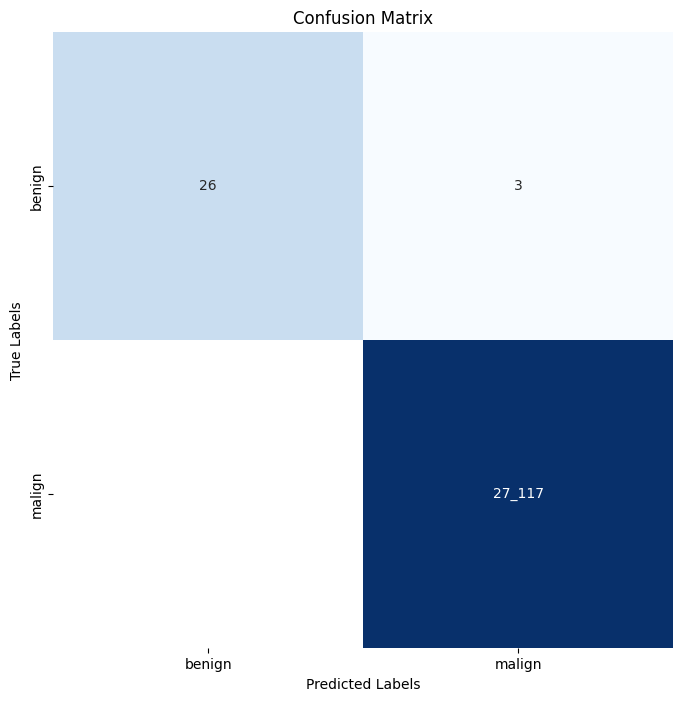
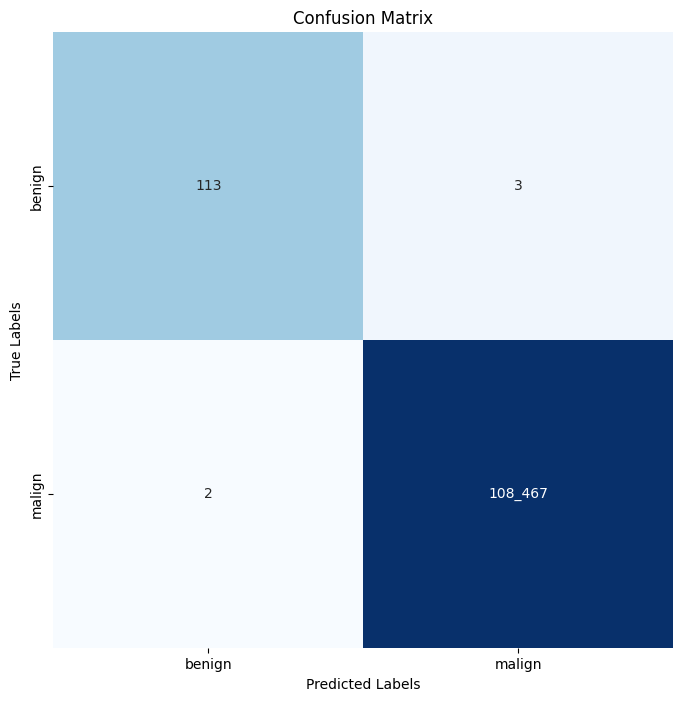
increase sampling to 2%

Changed region(s): [[0.0615, 0.03, 0.5534, 0.5093], [0.7072, 0.689, 0.7994, 0.719]]

diff --git a/scripts/packet_pincer_preprocess_results.py b/scripts/packet_pincer_preprocess_results.py
@@ -37,7 +37,7 @@ PACKET_PINCER_LABEL = "label"
 START_WITH_LABEL = 'ddos'
 
 MIN_EXAMPLES=1000
-SAMPLING_PERCENTAGE=0.5/100
+SAMPLING_PERCENTAGE=2/100
 TRAIN_PERCENTAGE=70/100
 VALIDATION_PERCENTAGE=20/100
 TEST_PERCENTAGE=10/100
